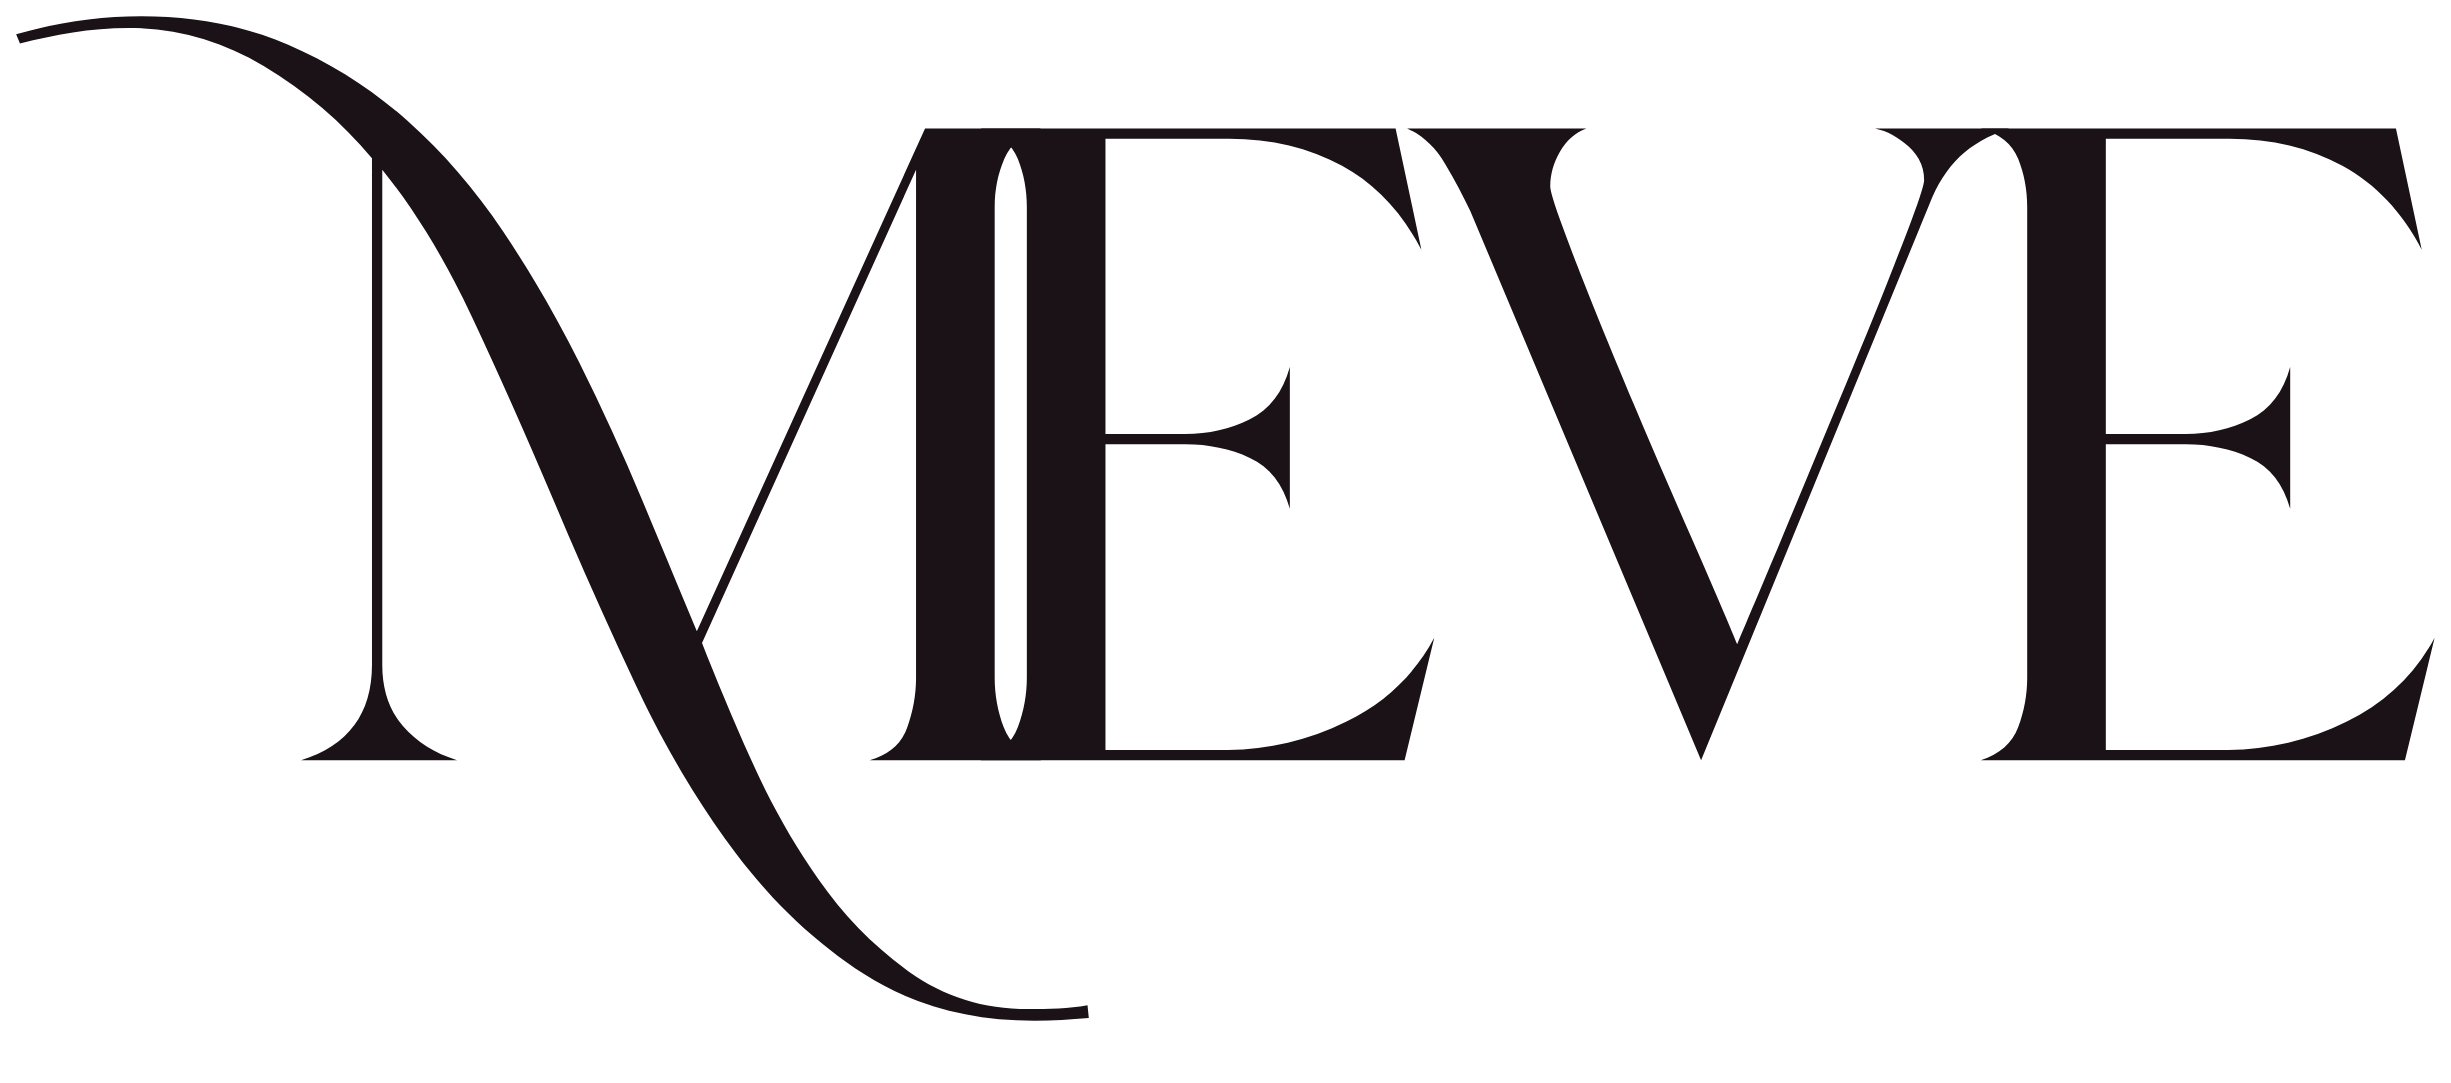
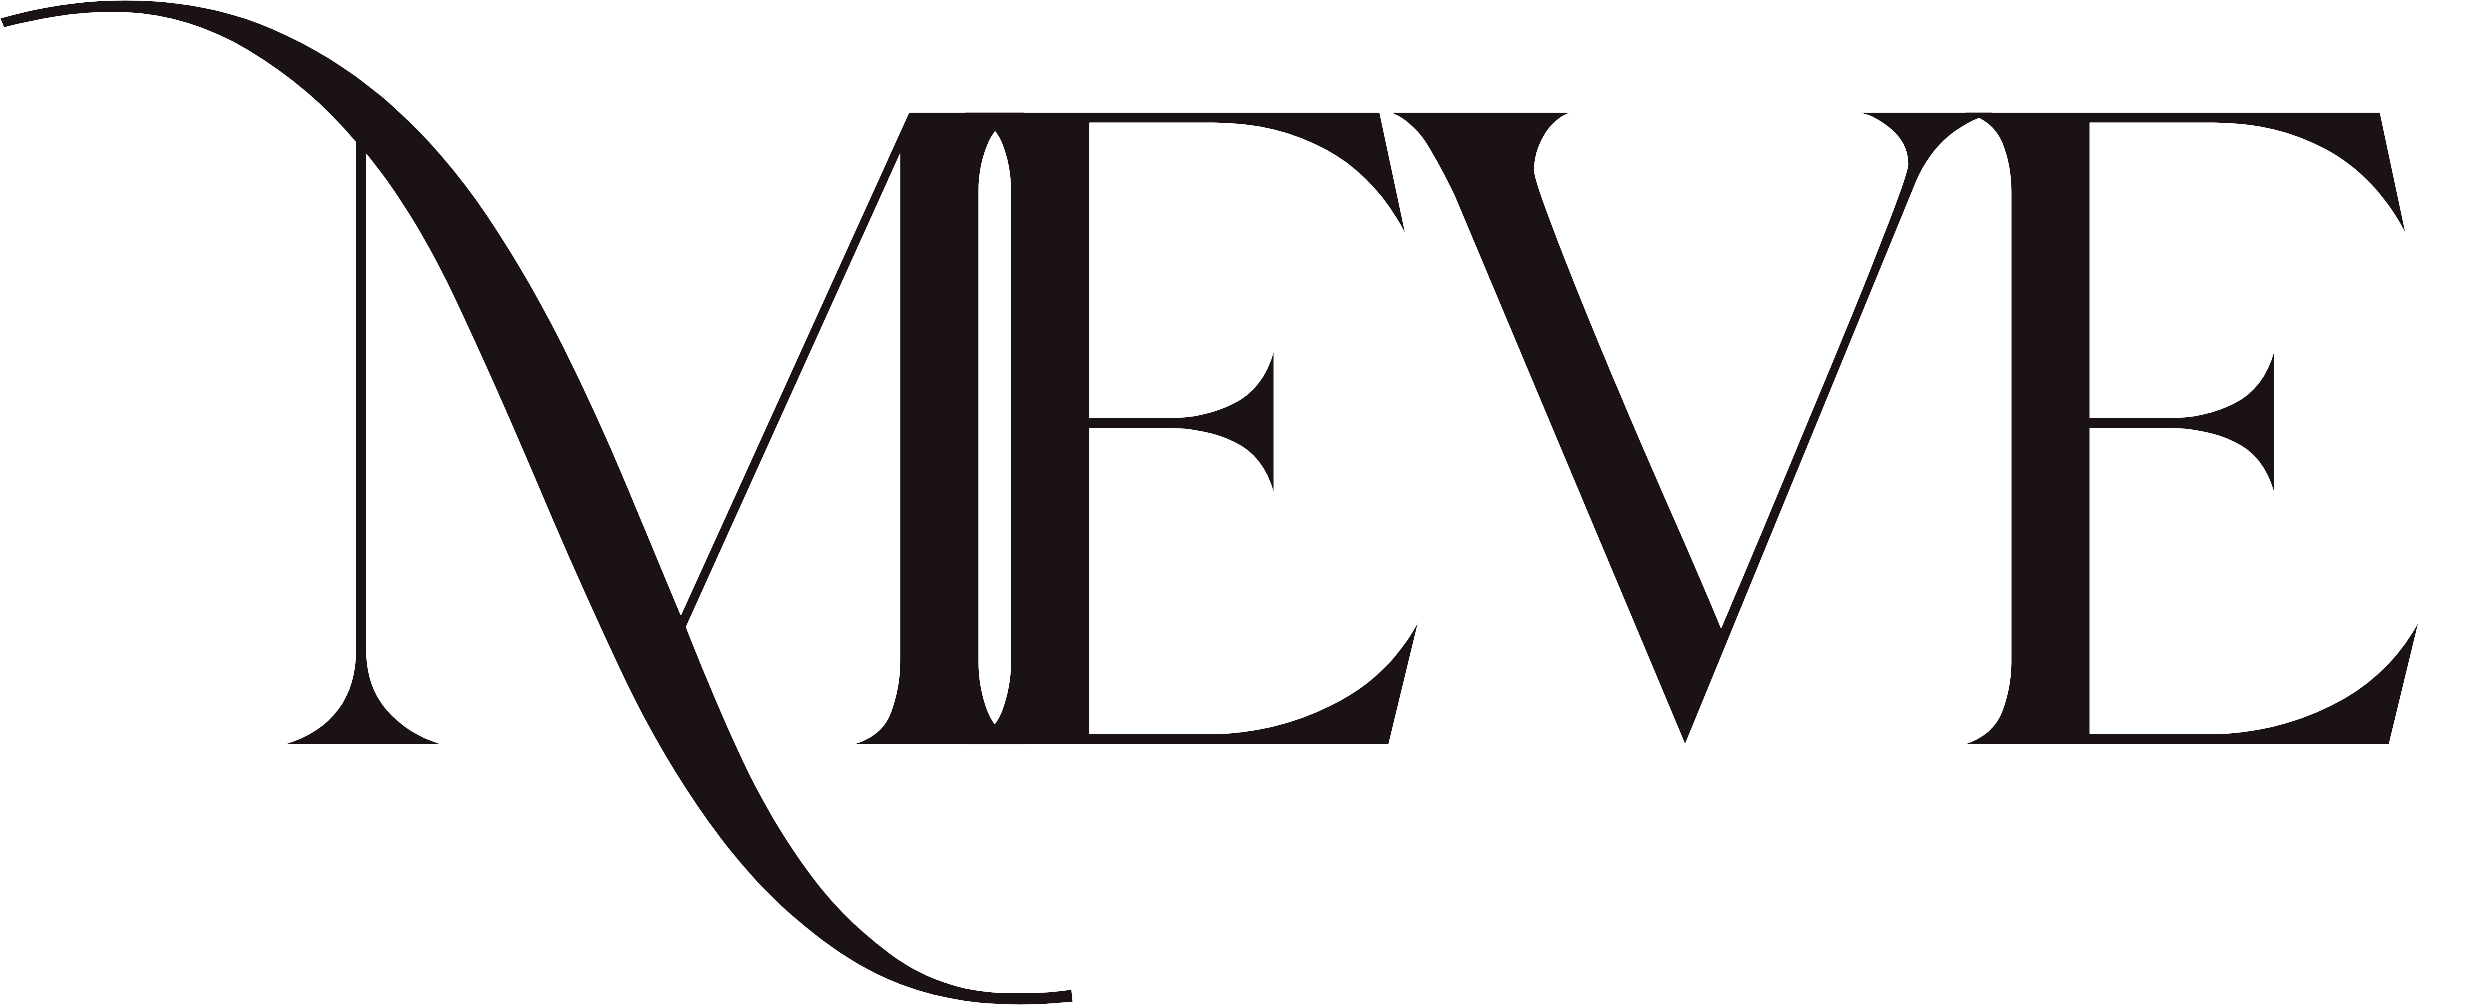
links: fresh near-white washes (no murk), optically centered smaller wordmark, intuitive action titles

Changed region(s): [[0.124, 0.0925, 0.9922, 1.0], [0.0, 0.0, 0.124, 0.0617]]

diff --git a/links/index.html b/links/index.html
@@ -30,10 +30,10 @@
 html,body{height:100%}
 body{
   background:
-    radial-gradient(90% 60% at 15% 8%, rgba(240,196,214,.55), transparent 60%),
-    radial-gradient(80% 55% at 88% 22%, rgba(206,190,232,.42), transparent 62%),
-    radial-gradient(90% 60% at 50% 105%, rgba(245,214,206,.5), transparent 65%),
-    linear-gradient(170deg,#FDFAFA 0%, #F8EFF3 55%, #F5ECF3 100%);
+    radial-gradient(80% 50% at 12% 6%, rgba(250,219,231,.5), transparent 58%),
+    radial-gradient(70% 45% at 90% 18%, rgba(226,222,246,.35), transparent 60%),
+    radial-gradient(80% 50% at 50% 108%, rgba(252,228,222,.45), transparent 62%),
+    #FEFCFC;
   background-attachment:fixed;
   color:var(--ink);
   font-family:var(--kr);line-height:1.7;letter-spacing:-.008em;
@@ -52,7 +52,7 @@ img{display:block;max-width:100%}
 
 /* ---------- masthead ---------- */
 .mast{text-align:center}
-.mast img{width:min(200px,54vw);margin-inline:auto}
+.mast img{width:min(158px,42vw);margin-inline:auto}
 .date{
   margin-top:1.5rem;
   font-family:var(--sans);font-size:.7rem;font-weight:400;letter-spacing:.24em;color:#6E5A64;
@@ -157,27 +157,27 @@ img{display:block;max-width:100%}
   <nav class="links up d3" aria-label="MEVE 링크">
     <a class="lk primary up d3" href="https://meve.beauty/#waitlist">
       <span class="no" aria-hidden="true">i.</span>
-      <span class="tx"><b>출시 알림 신청</b><i>얼리 액세스 · 선착순 초대</i></span>
+      <span class="tx"><b>앱 출시 알림 받기</b><i>얼리 액세스 · 선착순 초대</i></span>
       <span class="ar" aria-hidden="true"><svg viewBox="0 0 12 12" fill="none" stroke="currentColor" stroke-width="1.4" stroke-linecap="round" stroke-linejoin="round"><path d="M2.6 9.4 9.2 2.8"/><path d="M4.2 2.8h5v5"/></svg></span>
     </a>
     <a class="lk up d4" href="https://meve.beauty">
       <span class="no" aria-hidden="true">ii.</span>
-      <span class="tx"><b>미브 하우스</b><i>브랜드 필름 · 시스템 · 뷰티 DNA</i></span>
+      <span class="tx"><b>미브 하우스에 관하여</b><i>더 자세히 알아보기</i></span>
       <span class="ar" aria-hidden="true"><svg viewBox="0 0 12 12" fill="none" stroke="currentColor" stroke-width="1.4" stroke-linecap="round" stroke-linejoin="round"><path d="M2.6 9.4 9.2 2.8"/><path d="M4.2 2.8h5v5"/></svg></span>
     </a>
     <a class="lk up d5" href="https://meve.beauty/#mastermind">
       <span class="no" aria-hidden="true">iii.</span>
-      <span class="tx"><b>마스터마인드</b><i>8주 아카데미 · 1기 모집</i></span>
+      <span class="tx"><b>마스터마인드 아카데미 알아보기</b><i>8주 과정 · 1기 모집 중</i></span>
       <span class="ar" aria-hidden="true"><svg viewBox="0 0 12 12" fill="none" stroke="currentColor" stroke-width="1.4" stroke-linecap="round" stroke-linejoin="round"><path d="M2.6 9.4 9.2 2.8"/><path d="M4.2 2.8h5v5"/></svg></span>
     </a>
     <a class="lk up d6" href="https://meve.beauty/partners">
       <span class="no" aria-hidden="true">iv.</span>
-      <span class="tx"><b>파트너십</b><i>클리닉 · 브랜드 · 아티스트 · 리테일</i></span>
+      <span class="tx"><b>파트너십 제안하기</b><i>클리닉 · 브랜드 · 아티스트 · 리테일</i></span>
       <span class="ar" aria-hidden="true"><svg viewBox="0 0 12 12" fill="none" stroke="currentColor" stroke-width="1.4" stroke-linecap="round" stroke-linejoin="round"><path d="M2.6 9.4 9.2 2.8"/><path d="M4.2 2.8h5v5"/></svg></span>
     </a>
     <a class="lk up d7" href="mailto:ruby@meve.beauty">
       <span class="no" aria-hidden="true">v.</span>
-      <span class="tx"><b>문의</b><i>ruby@meve.beauty</i></span>
+      <span class="tx"><b>이메일로 문의하기</b><i>ruby@meve.beauty</i></span>
       <span class="ar" aria-hidden="true"><svg viewBox="0 0 12 12" fill="none" stroke="currentColor" stroke-width="1.4" stroke-linecap="round" stroke-linejoin="round"><path d="M2.6 9.4 9.2 2.8"/><path d="M4.2 2.8h5v5"/></svg></span>
     </a>
   </nav>
